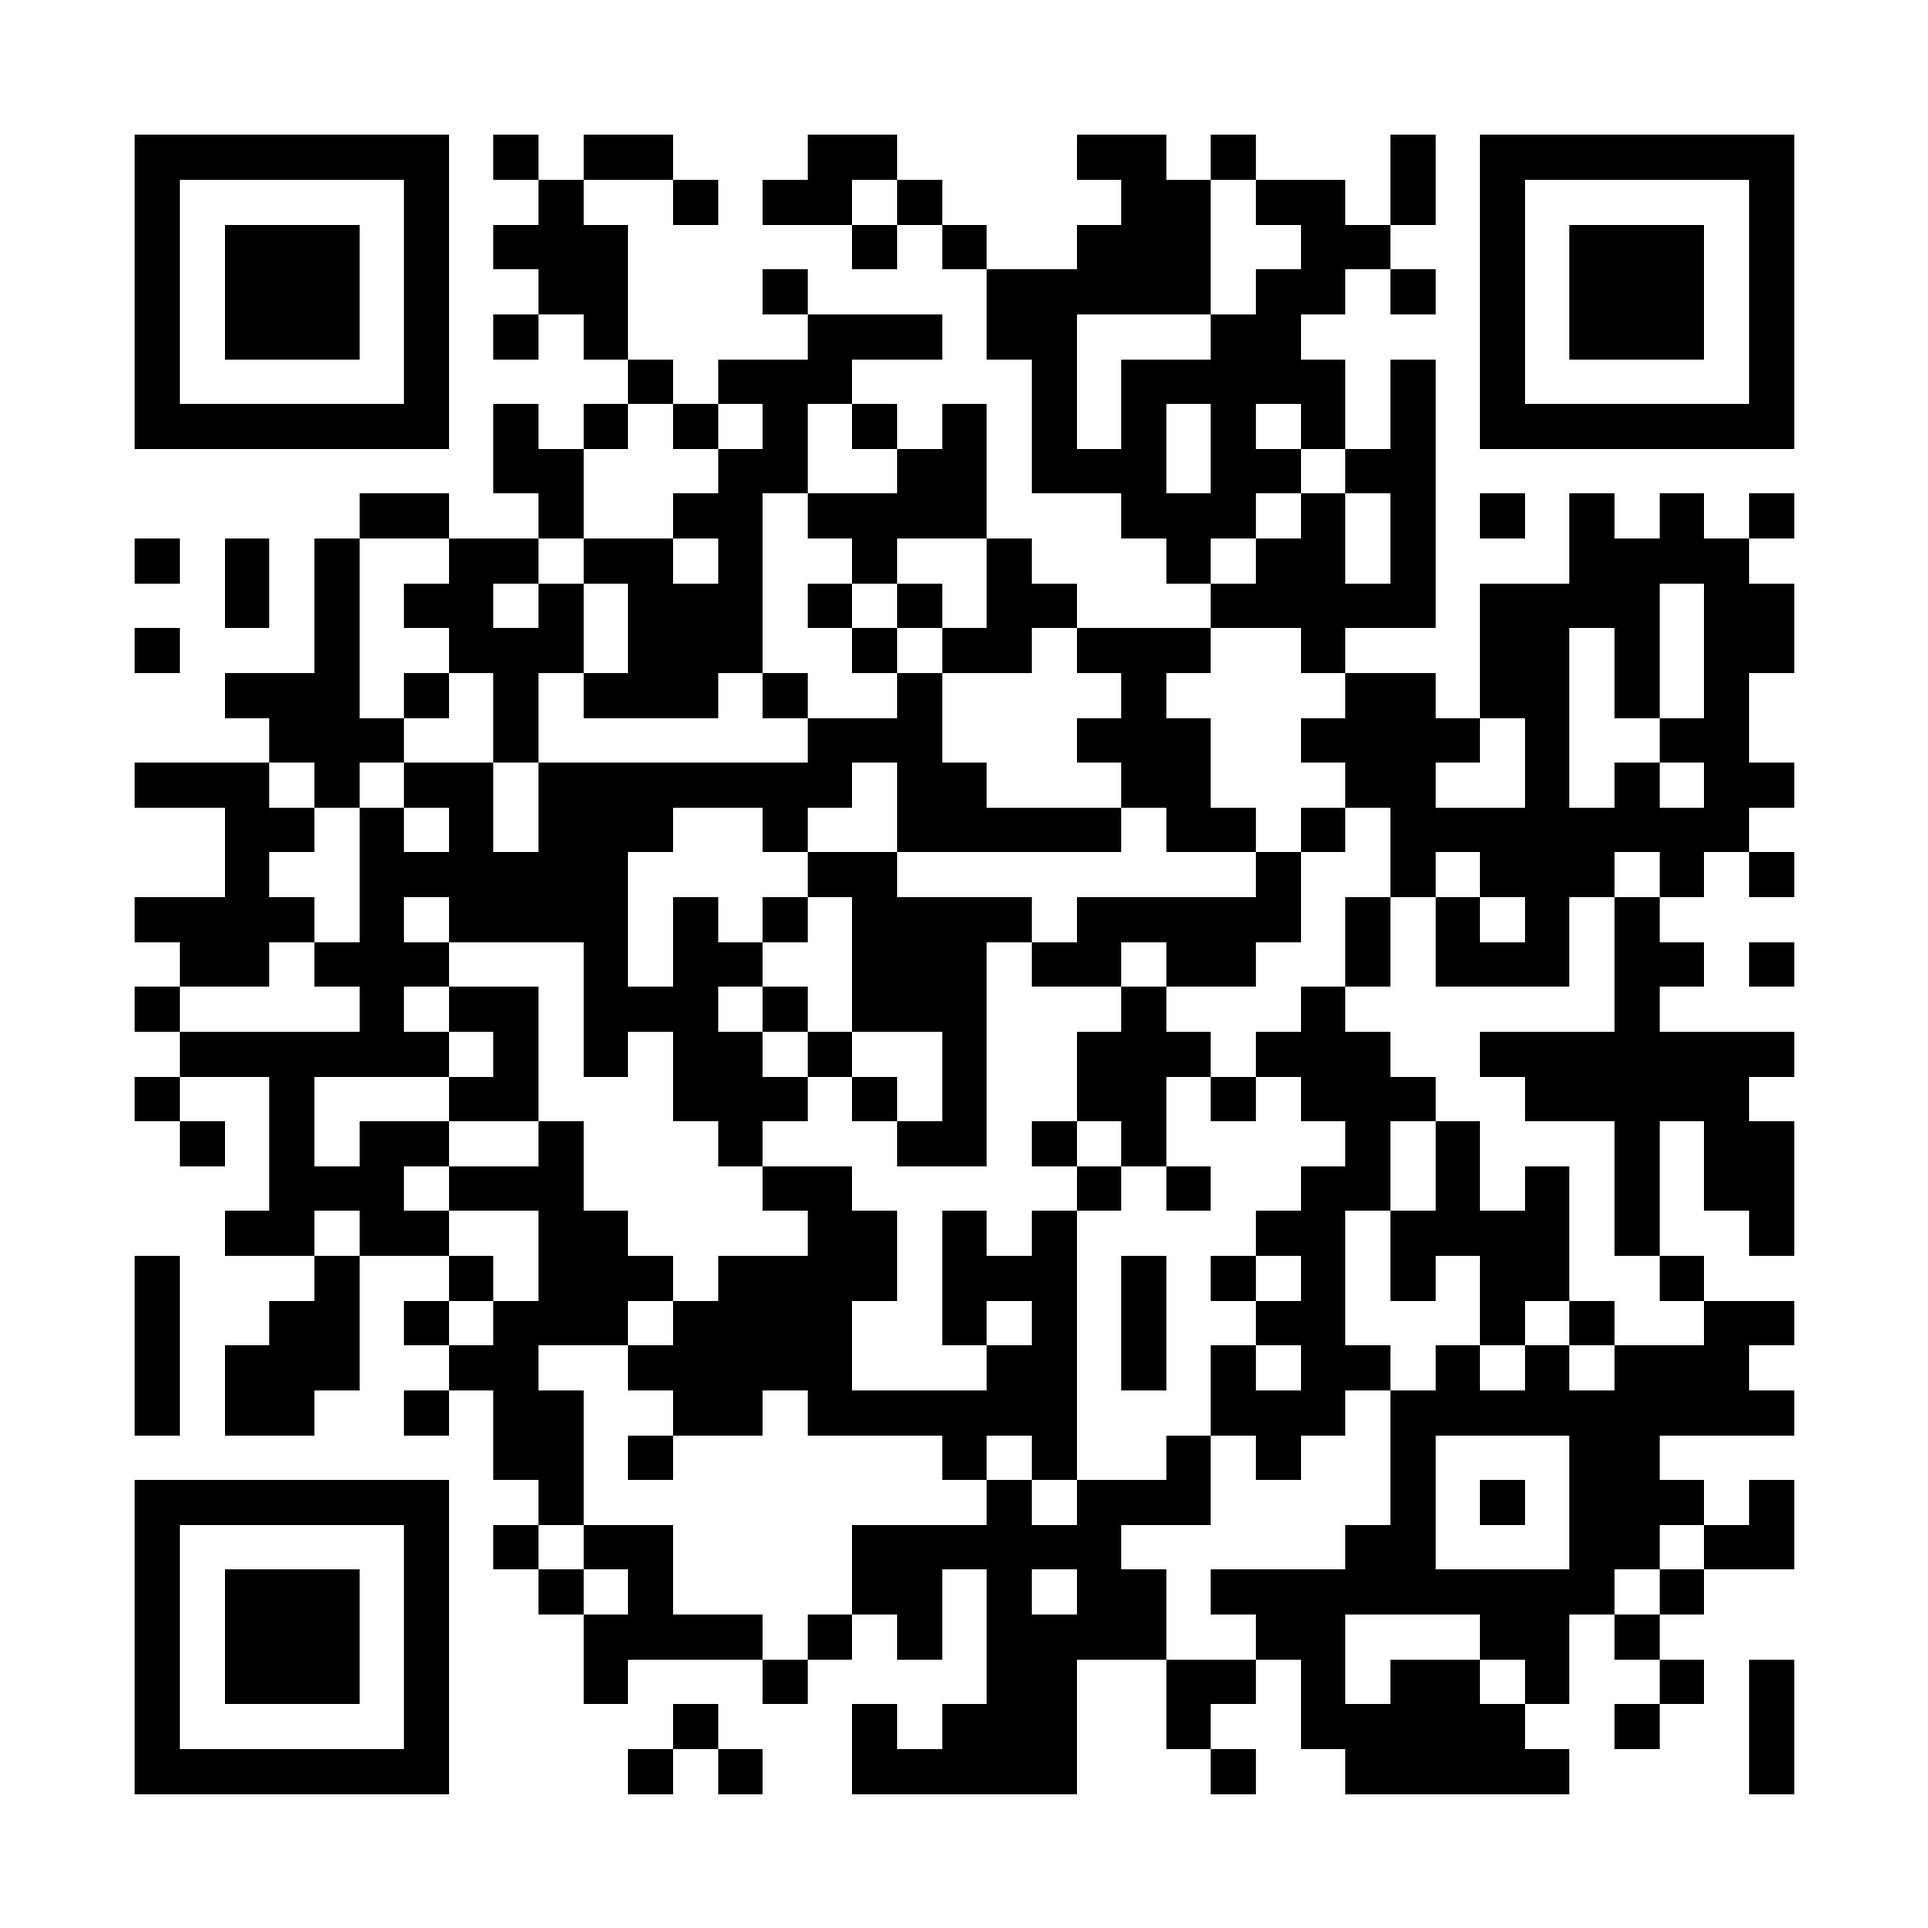
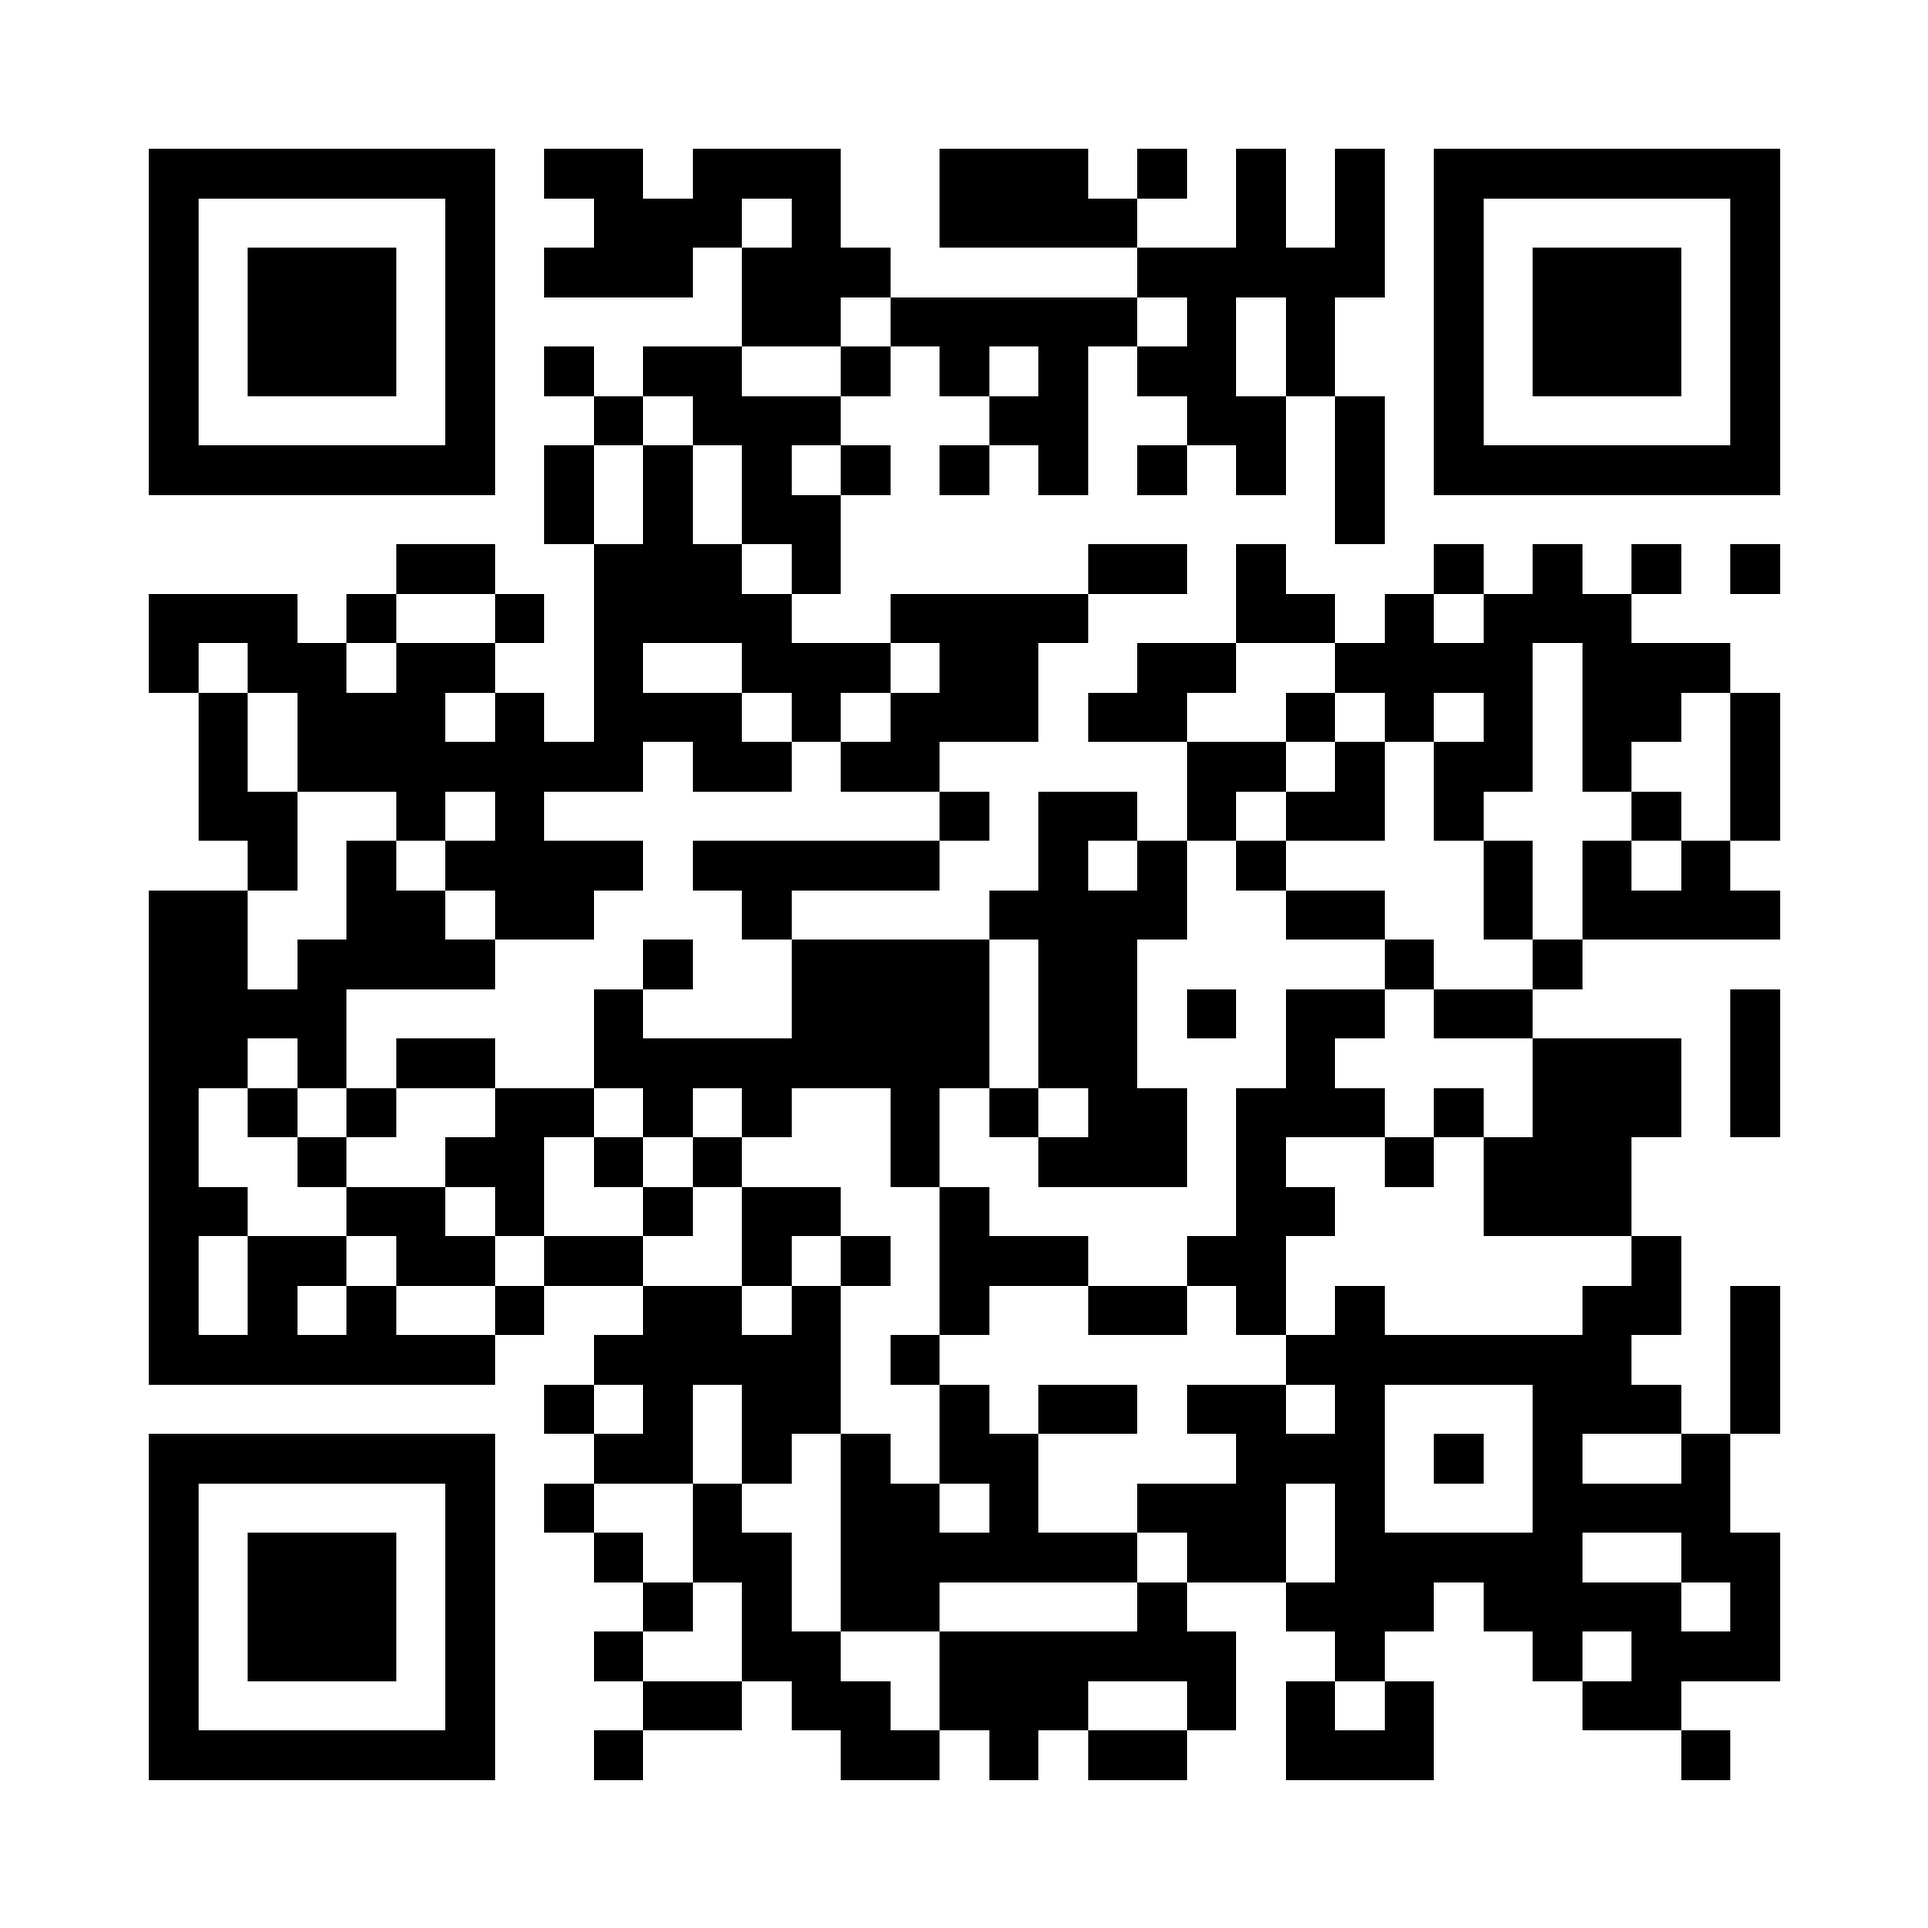
Switch primary URL and QR code to https://flames-of-fire.vercel.app

diff --git a/out/registration-qr-poster.html b/out/registration-qr-poster.html
@@ -18,8 +18,8 @@
   <div class="rule"></div>
   <h1>FLAMES OF FIRE</h1>
   <p class="sub">Scan to register</p>
-  <div class="qr"><svg xmlns="http://www.w3.org/2000/svg" width="640" height="640" viewBox="0 0 43 43" shape-rendering="crispEdges"><path fill="#ffffff" d="M0 0h43v43H0z"/><path stroke="#000000" d="M3 3.5h7m1 0h1m1 0h2m3 0h2m4 0h2m1 0h1m3 0h1m1 0h7M3 4.5h1m5 0h1m2 0h1m2 0h1m1 0h2m1 0h1m4 0h2m1 0h2m1 0h1m1 0h1m5 0h1M3 5.5h1m1 0h3m1 0h1m1 0h3m5 0h1m1 0h1m2 0h3m2 0h2m2 0h1m1 0h3m1 0h1M3 6.5h1m1 0h3m1 0h1m2 0h2m3 0h1m4 0h5m1 0h2m1 0h1m1 0h1m1 0h3m1 0h1M3 7.5h1m1 0h3m1 0h1m1 0h1m1 0h1m4 0h3m1 0h2m3 0h2m4 0h1m1 0h3m1 0h1M3 8.5h1m5 0h1m4 0h1m1 0h3m4 0h1m1 0h5m1 0h1m1 0h1m5 0h1M3 9.5h7m1 0h1m1 0h1m1 0h1m1 0h1m1 0h1m1 0h1m1 0h1m1 0h1m1 0h1m1 0h1m1 0h1m1 0h7M11 10.5h2m3 0h2m2 0h2m1 0h3m1 0h2m1 0h2M8 11.5h2m2 0h1m2 0h2m1 0h4m3 0h3m1 0h1m1 0h1m1 0h1m1 0h1m1 0h1m1 0h1M3 12.5h1m1 0h1m1 0h1m2 0h2m1 0h2m1 0h1m2 0h1m2 0h1m3 0h1m1 0h2m1 0h1m3 0h4M5 13.5h1m1 0h1m1 0h2m1 0h1m1 0h3m1 0h1m1 0h1m1 0h2m3 0h5m1 0h4m1 0h2M3 14.5h1m3 0h1m2 0h3m1 0h3m2 0h1m1 0h2m1 0h3m2 0h1m3 0h2m1 0h1m1 0h2M5 15.5h3m1 0h1m1 0h1m1 0h3m1 0h1m2 0h1m4 0h1m4 0h2m1 0h2m1 0h1m1 0h1M6 16.5h3m2 0h1m6 0h3m3 0h3m2 0h4m1 0h1m2 0h2M3 17.5h3m1 0h1m1 0h2m1 0h7m1 0h2m3 0h2m3 0h2m2 0h1m1 0h1m1 0h2M5 18.5h2m1 0h1m1 0h1m1 0h3m2 0h1m2 0h5m1 0h2m1 0h1m1 0h8M5 19.5h1m2 0h6m4 0h2m8 0h1m2 0h1m1 0h3m1 0h1m1 0h1M3 20.5h4m1 0h1m1 0h4m1 0h1m1 0h1m1 0h4m1 0h5m1 0h1m1 0h1m1 0h1m1 0h1M4 21.5h2m1 0h3m3 0h1m1 0h2m2 0h3m1 0h2m1 0h2m2 0h1m1 0h3m1 0h2m1 0h1M3 22.5h1m4 0h1m1 0h2m1 0h3m1 0h1m1 0h3m3 0h1m3 0h1m6 0h1M4 23.5h6m1 0h1m1 0h1m1 0h2m1 0h1m2 0h1m2 0h3m1 0h3m2 0h7M3 24.5h1m2 0h1m3 0h2m3 0h3m1 0h1m1 0h1m2 0h2m1 0h1m1 0h3m2 0h5M4 25.5h1m1 0h1m1 0h2m2 0h1m3 0h1m3 0h2m1 0h1m1 0h1m4 0h1m1 0h1m3 0h1m1 0h2M6 26.5h3m1 0h3m4 0h2m5 0h1m1 0h1m2 0h2m1 0h1m1 0h1m1 0h1m1 0h2M5 27.5h2m1 0h2m2 0h2m4 0h2m1 0h1m1 0h1m4 0h2m1 0h4m1 0h1m2 0h1M3 28.5h1m3 0h1m2 0h1m1 0h3m1 0h4m1 0h3m1 0h1m1 0h1m1 0h1m1 0h1m1 0h2m2 0h1M3 29.5h1m2 0h2m1 0h1m1 0h3m1 0h4m2 0h1m1 0h1m1 0h1m2 0h2m3 0h1m1 0h1m2 0h2M3 30.5h1m1 0h3m2 0h2m2 0h5m3 0h2m1 0h1m1 0h1m1 0h2m1 0h1m1 0h1m1 0h3M3 31.5h1m1 0h2m2 0h1m1 0h2m2 0h2m1 0h6m3 0h3m1 0h9M11 32.5h2m1 0h1m6 0h1m1 0h1m2 0h1m1 0h1m2 0h1m3 0h2M3 33.5h7m2 0h1m9 0h1m1 0h3m4 0h1m1 0h1m1 0h3m1 0h1M3 34.5h1m5 0h1m1 0h1m1 0h2m4 0h6m5 0h2m3 0h2m1 0h2M3 35.5h1m1 0h3m1 0h1m2 0h1m1 0h1m4 0h2m1 0h1m1 0h2m1 0h9m1 0h1M3 36.5h1m1 0h3m1 0h1m3 0h4m1 0h1m1 0h1m1 0h4m2 0h2m3 0h2m1 0h1M3 37.5h1m1 0h3m1 0h1m3 0h1m3 0h1m4 0h2m2 0h2m1 0h1m1 0h2m1 0h1m2 0h1m1 0h1M3 38.5h1m5 0h1m5 0h1m3 0h1m1 0h3m2 0h1m2 0h5m2 0h1m2 0h1M3 39.5h7m4 0h1m1 0h1m2 0h5m3 0h1m2 0h5m4 0h1"/></svg>
+  <div class="qr"><svg xmlns="http://www.w3.org/2000/svg" width="640" height="640" viewBox="0 0 39 39" shape-rendering="crispEdges"><path fill="#ffffff" d="M0 0h39v39H0z"/><path stroke="#000000" d="M3 3.5h7m1 0h2m1 0h3m2 0h3m1 0h1m1 0h1m1 0h1m1 0h7M3 4.5h1m5 0h1m2 0h3m1 0h1m2 0h4m2 0h1m1 0h1m1 0h1m5 0h1M3 5.5h1m1 0h3m1 0h1m1 0h3m1 0h3m5 0h5m1 0h1m1 0h3m1 0h1M3 6.5h1m1 0h3m1 0h1m5 0h2m1 0h5m1 0h1m1 0h1m2 0h1m1 0h3m1 0h1M3 7.5h1m1 0h3m1 0h1m1 0h1m1 0h2m2 0h1m1 0h1m1 0h1m1 0h2m1 0h1m2 0h1m1 0h3m1 0h1M3 8.5h1m5 0h1m2 0h1m1 0h3m3 0h2m2 0h2m1 0h1m1 0h1m5 0h1M3 9.5h7m1 0h1m1 0h1m1 0h1m1 0h1m1 0h1m1 0h1m1 0h1m1 0h1m1 0h1m1 0h7M11 10.5h1m1 0h1m1 0h2m10 0h1M8 11.5h2m2 0h3m1 0h1m5 0h2m1 0h1m3 0h1m1 0h1m1 0h1m1 0h1M3 12.5h3m1 0h1m2 0h1m1 0h4m2 0h4m3 0h2m1 0h1m1 0h3M3 13.5h1m1 0h2m1 0h2m2 0h1m2 0h3m1 0h2m2 0h2m2 0h4m1 0h3M4 14.5h1m1 0h3m1 0h1m1 0h3m1 0h1m1 0h3m1 0h2m2 0h1m1 0h1m1 0h1m1 0h2m1 0h1M4 15.5h1m1 0h7m1 0h2m1 0h2m5 0h2m1 0h1m1 0h2m1 0h1m2 0h1M4 16.5h2m2 0h1m1 0h1m8 0h1m1 0h2m1 0h1m1 0h2m1 0h1m3 0h1m1 0h1M5 17.5h1m1 0h1m1 0h4m1 0h5m2 0h1m1 0h1m1 0h1m4 0h1m1 0h1m1 0h1M3 18.5h2m2 0h2m1 0h2m3 0h1m4 0h4m2 0h2m2 0h1m1 0h4M3 19.5h2m1 0h4m3 0h1m2 0h4m1 0h2m5 0h1m2 0h1M3 20.5h4m5 0h1m3 0h4m1 0h2m1 0h1m1 0h2m1 0h2m4 0h1M3 21.5h2m1 0h1m1 0h2m2 0h8m1 0h2m3 0h1m4 0h3m1 0h1M3 22.5h1m1 0h1m1 0h1m2 0h2m1 0h1m1 0h1m2 0h1m1 0h1m1 0h2m1 0h3m1 0h1m1 0h3m1 0h1M3 23.5h1m2 0h1m2 0h2m1 0h1m1 0h1m3 0h1m2 0h3m1 0h1m2 0h1m1 0h3M3 24.5h2m2 0h2m1 0h1m2 0h1m1 0h2m2 0h1m5 0h2m3 0h3M3 25.5h1m1 0h2m1 0h2m1 0h2m2 0h1m1 0h1m1 0h3m2 0h2m7 0h1M3 26.5h1m1 0h1m1 0h1m2 0h1m2 0h2m1 0h1m2 0h1m2 0h2m1 0h1m1 0h1m4 0h2m1 0h1M3 27.5h7m2 0h5m1 0h1m7 0h7m2 0h1M11 28.5h1m1 0h1m1 0h2m2 0h1m1 0h2m1 0h2m1 0h1m3 0h3m1 0h1M3 29.5h7m2 0h2m1 0h1m1 0h1m1 0h2m4 0h3m1 0h1m1 0h1m2 0h1M3 30.5h1m5 0h1m1 0h1m2 0h1m2 0h2m1 0h1m2 0h3m1 0h1m3 0h4M3 31.5h1m1 0h3m1 0h1m2 0h1m1 0h2m1 0h6m1 0h2m1 0h5m2 0h2M3 32.5h1m1 0h3m1 0h1m3 0h1m1 0h1m1 0h2m4 0h1m2 0h3m1 0h4m1 0h1M3 33.5h1m1 0h3m1 0h1m2 0h1m2 0h2m2 0h6m2 0h1m3 0h1m1 0h3M3 34.5h1m5 0h1m3 0h2m1 0h2m1 0h3m2 0h1m1 0h1m1 0h1m3 0h2M3 35.5h7m2 0h1m4 0h2m1 0h1m1 0h2m2 0h3m5 0h1"/></svg>
 </div>
   <p class="sub">Point your phone camera at the code.</p>
-  <footer>https://victory4110.github.io/meeting/</footer>
+  <footer>https://flames-of-fire.vercel.app</footer>
 </div></body></html>

diff --git a/index.html b/index.html
@@ -5,6 +5,11 @@
   <meta name="viewport" content="width=device-width, initial-scale=1, viewport-fit=cover">
   <title>Meeting Registration</title>
   <meta name="description" content="Official meeting registration and program pamphlet for NYC'26 FLAMES OF FIRE.">
+  <script>
+    if (window.location.hostname.indexOf("github.io") !== -1) {
+      window.location.replace("https://flames-of-fire.vercel.app" + window.location.search + window.location.hash);
+    }
+  </script>
 
   <style>
     :root {

diff --git a/README.md b/README.md
@@ -4,11 +4,11 @@ One permanent QR code for meeting registration. Print it once. When the next
 meeting comes, you change **one line** and the same QR keeps working.
 
 ```
-   QR code  ──►  https://victory4110.github.io/meeting/  ──►  the current Google Form
+   QR code  ──►  https://flames-of-fire.vercel.app  ──►  the current Google Form
                           (config.js holds the link)
 ```
 
-Live page: **https://victory4110.github.io/meeting/**
+Live page: **https://flames-of-fire.vercel.app**
 
 ---
 
@@ -55,7 +55,7 @@ When someone scans the QR code on the flyer or poster, they land on the **NYC'26
 
 ```bash
 npm install
-npm run qr -- https://victory4110.github.io/meeting/ --name=registration-qr
+npm run qr -- https://flames-of-fire.vercel.app --name=registration-qr
 npm test
 ```
 
